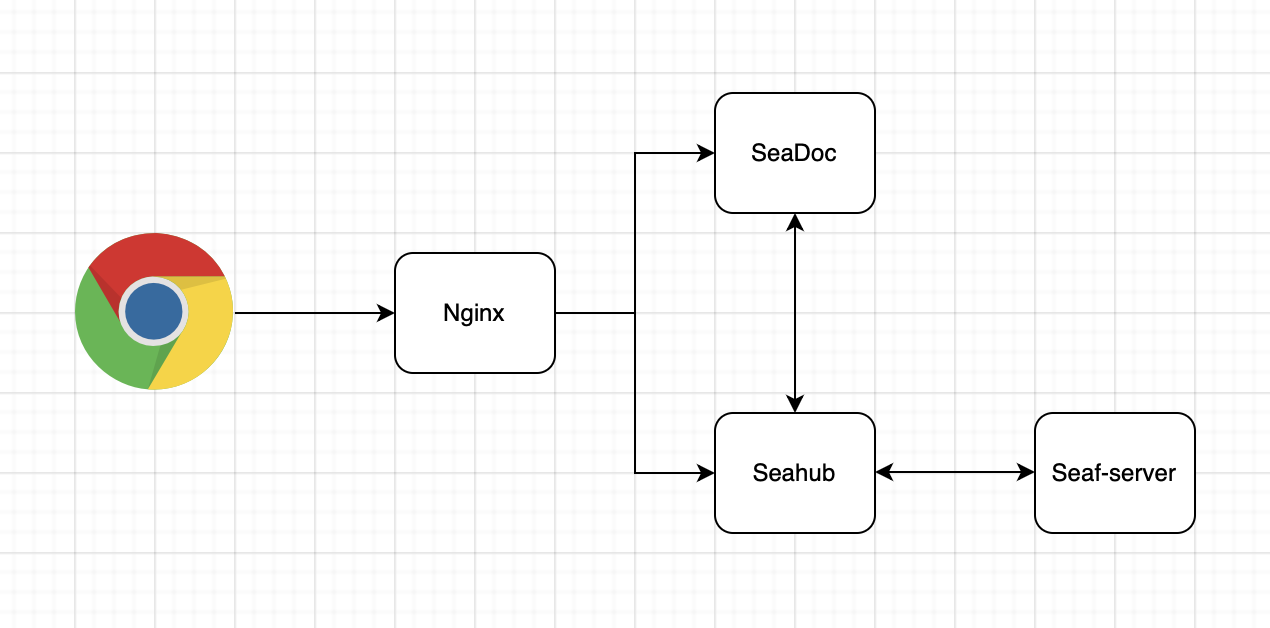
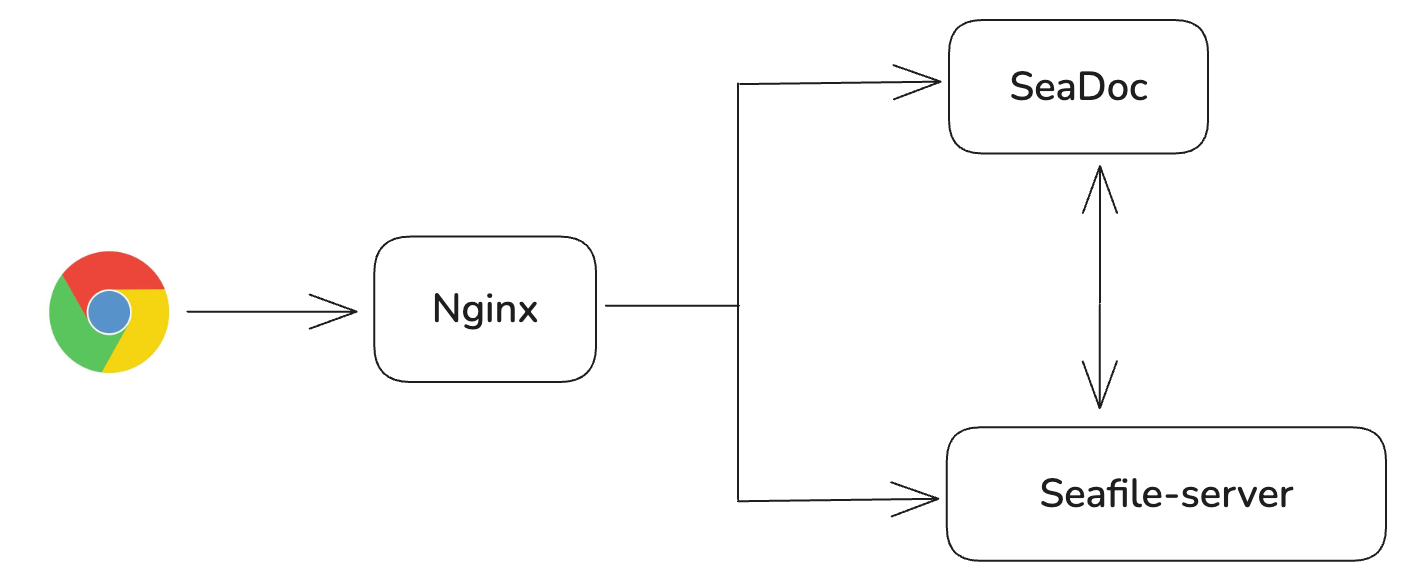
opt: update 12.0 seadoc

diff --git a/manual/extra_setup/setup_seadoc.md b/manual/extra_setup/setup_seadoc.md
@@ -24,9 +24,9 @@ The SeaDoc archticture is demonstrated as below:
 
 Here is the workflow when a user open sdoc file in browser
 
-1. When a user open a sdoc file in the browser, a file loading request will be sent to Nginx, and Nginx proxy the request to SeaDoc server.
+1. When a user open a sdoc file in the browser, a file loading request will be sent to Caddy, and Caddy proxy the request to SeaDoc server (see [Seafile instance archticture](../docker/seafile_docker_overview.md) for the details).
 2. SeaDoc server will send the content back if it is already cached, otherwise it sends a request to Seahub.
-3. Seahub loads the content from seaf-server and sends it to SeaDoc server.
+3. Seahub loads the content from Seafile-server, then sends it to SeaDoc server and write the file to the cache at the same time.
 4. After SeaDoc receives the content, it sends the content to the browser.
 
 ## Setup SeaDoc
@@ -35,11 +35,10 @@ Here is the workflow when a user open sdoc file in browser
 
 ### Deployment method
 
-SeaDoc has three deployment methods:
+SeaDoc has the following deployment methods:
 
-* Deploy SeaDoc on a new host.
-* SeaDoc and Seafile are deployed on the same host.
-* SeaDoc and Seafile docker are deployed on the same host.
+- Deploy SeaDoc on a new host.
+- SeaDoc and Seafile docker are deployed on the same host.
 
 ### Deploy SeaDoc on a new host
 
@@ -47,13 +46,13 @@ SeaDoc has three deployment methods:
 
 Download [docker-compose.yml](https://manual.seafile.com/docker/docker-compose/seadoc/0.8/docker-compose.yml) sample file to your host. Then modify the file according to your environment. The following fields are needed to be modified:
 
-* MySQL host (DB_HOST)
-* MySQL port (DB_PORT)
-* MySQL user (DB_USER)
-* MySQL password (DB_PASSWD)
-* The volume directory of SeaDoc data (volumes)
-* SeaDoc service URL (SDOC_SERVER_HOSTNAME)
-* Seafile service URL (SEAHUB_SERVICE_URL)
+- `DB_HOST`: MySQL host
+- `DB_PORT`: MySQL port
+- `DB_USER`: MySQL user
+- `DB_PASSWD`: MySQL password
+- `volumes`: The volume directory of SeaDoc data
+- `SDOC_SERVER_HOSTNAME`: SeaDoc service URL
+- `SEAHUB_SERVICE_URL`: Seafile service URL
 
 #### Create the SeaDoc database manually
 
@@ -67,123 +66,25 @@ GRANT ALL PRIVILEGES ON `sdoc_db`.* to `seafile`@`%.%.%.%`;
 ```
 
 Note, SeaDoc will only create one database table to store operation logs.
-
-Then follow the section: Start SeaDoc.
-
-### SeaDoc and Seafile (non docker version) are deployed on the same host
-
-#### Download and modify SeaDoc docker-compose.yml
-
-Download [docker-compose.yml](https://manual.seafile.com/docker/docker-compose/seadoc/0.8/docker-compose.yml) sample file to your host. Then modify the file according to your environment. The following fields are needed to be modified:
-
-* MySQL host (DB_HOST)
-* MySQL port (DB_PORT)
-* MySQL user (DB_USER)
-* MySQL password (DB_PASSWD)
-* The volume directory of SeaDoc data (volumes)
-* SeaDoc service URL (SDOC_SERVER_HOSTNAME)
-* Seafile service URL (SEAHUB_SERVICE_URL)
-
-The `ports` need to be modified additionally:
-
-```yml
-sdoc-server:
-    ...
-    ports:
-        # - "80:80"
-        # - "443:443"
-        - "7070:7070"
-        - "8888:8888"
-```
-
-#### Create the SeaDoc database manually
-
-SeaDoc and Seafile share the MySQL service.
-
-Create the database sdoc_db in Seafile MySQL and authorize the user.
-
-```sh
-create database if not exists sdoc_db charset utf8mb4;
-GRANT ALL PRIVILEGES ON `sdoc_db`.* to `seafile`@`%.%.%.%`;
-```
-
-Note, SeaDoc will only create one database table to store operation logs.
-
-#### Modify seafile.nginx.conf
-
-Add the following to the `seafile.nginx.conf`:
-
-```
-    location /sdoc-server/ {
-        add_header Access-Control-Allow-Origin *;
-        add_header Access-Control-Allow-Methods GET,POST,PUT,DELETE,OPTIONS;
-        add_header Access-Control-Allow-Headers "deviceType,token, authorization, content-type";
-        if ($request_method = 'OPTIONS') {
-            add_header Access-Control-Allow-Origin *;
-            add_header Access-Control-Allow-Methods GET,POST,PUT,DELETE,OPTIONS;
-            add_header Access-Control-Allow-Headers "deviceType,token, authorization, content-type";
-            return 204;
-        }
-
-        proxy_pass         http://127.0.0.1:7070/;
-        proxy_redirect     off;
-        proxy_set_header   Host              $host;
-        proxy_set_header   X-Real-IP         $remote_addr;
-        proxy_set_header   X-Forwarded-For   $proxy_add_x_forwarded_for;
-        proxy_set_header   X-Forwarded-Host  $server_name;
-        proxy_set_header   X-Forwarded-Proto $scheme;
-
-        client_max_body_size 100m;
-    }
-
-    location /socket.io {
-        proxy_pass http://127.0.0.1:7070;
-        proxy_http_version 1.1;
-        proxy_set_header Upgrade $http_upgrade;
-        proxy_set_header Connection 'upgrade';
-        proxy_redirect off;
-
-        proxy_buffers 8 32k;
-        proxy_buffer_size 64k;
-
-        proxy_set_header X-Real-IP $remote_addr;
-        proxy_set_header X-Forwarded-For $proxy_add_x_forwarded_for;
-        proxy_set_header Host $http_host;
-        proxy_set_header X-NginX-Proxy true;
-    }
-```
-
-And reload nginx
-
-```sh
-nginx -s reload
-```
 
 Then follow the section: Start SeaDoc.
 
 ### SeaDoc and Seafile docker are deployed on the same host
 
-#### Modify Seafile docker-compose.yml
+#### Download the seadoc.yml and integrate SeaDoc in Seafile docker
 
-Add the SeaDoc [docker-compose.yml](https://manual.seafile.com/docker/docker-compose/seadoc/0.8/docker-compose.yml) contents to the Seafile docker-compose.yml, and the `ports` need to be modified additionally:
+```shell
+# for community edition
+wget https://manual.seafile.com/docker/docker-compose/ce/12.0/seadoc.yml
 
-```yml
-services:
-  ...
-  seafile:
-    ...
+# for pro edition
+wget https://manual.seafile.com/docker/docker-compose/pro/12.0/seadoc.yml
+```
 
-  sdoc-server:
-    image: seafileltd/sdoc-server:latest
-    container_name: sdoc-server
-    # ports:
-      # - 80:80
-      # - 443:443
-      # - 7070:7070
-      # - 8888:8888
-    networks:
-      - seafile-net
-    ...
+Modify `.env`, and insert `seadoc.yml` into `COMPOSE_FILE`
+
+```shell
+COMPOSE_FILE='seafile-server.yml,caddy.yml,seadoc.yml'
 ```
 
 #### Create the SeaDoc database manually
@@ -198,58 +99,6 @@ GRANT ALL PRIVILEGES ON `sdoc_db`.* to `seafile`@`%.%.%.%`;
 ```
 
 Note, SeaDoc will only create one database table to store operation logs.
-
-#### Modify seafile.nginx.conf
-
-Add the following to the `seafile.nginx.conf`:
-
-```
-    location /sdoc-server/ {
-        add_header Access-Control-Allow-Origin *;
-        add_header Access-Control-Allow-Methods GET,POST,PUT,DELETE,OPTIONS;
-        add_header Access-Control-Allow-Headers "deviceType,token, authorization, content-type";
-        if ($request_method = 'OPTIONS') {
-            add_header Access-Control-Allow-Origin *;
-            add_header Access-Control-Allow-Methods GET,POST,PUT,DELETE,OPTIONS;
-            add_header Access-Control-Allow-Headers "deviceType,token, authorization, content-type";
-            return 204;
-        }
-
-        proxy_pass         http://sdoc-server:7070/;
-        proxy_redirect     off;
-        proxy_set_header   Host              $host;
-        proxy_set_header   X-Real-IP         $remote_addr;
-        proxy_set_header   X-Forwarded-For   $proxy_add_x_forwarded_for;
-        proxy_set_header   X-Forwarded-Host  $server_name;
-        proxy_set_header   X-Forwarded-Proto $scheme;
-
-        client_max_body_size 100m;
-    }
-
-    location /socket.io {
-        proxy_pass http://sdoc-server:7070;
-        proxy_http_version 1.1;
-        proxy_set_header Upgrade $http_upgrade;
-        proxy_set_header Connection 'upgrade';
-        proxy_redirect off;
-
-        proxy_buffers 8 32k;
-        proxy_buffer_size 64k;
-
-        proxy_set_header X-Real-IP $remote_addr;
-        proxy_set_header X-Forwarded-For $proxy_add_x_forwarded_for;
-        proxy_set_header Host $http_host;
-        proxy_set_header X-NginX-Proxy true;
-    }
-```
-
-And reload nginx
-
-```sh
-nginx -s reload
-```
-
-Then follow the section: Start SeaDoc.
 
 ## Start SeaDoc
 
@@ -283,34 +132,6 @@ Restart Seafile server
 
 Now you can use SeaDoc!
 
-## More configuration options
-
-### Let's encrypt SSL certificate
-
-If you set `SDOC_SERVER_LETSENCRYPT` to `true`, the container would request a letsencrypt-signed SSL certificate for you automatically.
-
-e.g.
-
-```
-sdoc-server:
-    ...
-    ports:
-        - "80:80"
-        - "443:443"
-    ...
-    environment:
-        ...
-        - SDOC_SERVER_LETSENCRYPT=true
-        - SDOC_SERVER_HOSTNAME=sdoc-server.seafile.com
-        ...
-
-```
-
-If you want to use your own SSL certificate and the volume directory of SeaDoc data is `/opt/seadoc-data`:
-
-* create a folder `/opt/seadoc-data/ssl`, and put your certificate and private key under the ssl directory.
-* Assume your site name is `sdoc-server.example.com`, then your certificate must have the name `sdoc-server.example.com.crt`, and the private key must have the name `sdoc-server.example.com.key`.
-
 ## SeaDoc directory structure
 
 ### `/opt/seadoc-data`
@@ -337,12 +158,6 @@ docker compose up -d
 ### Load doc content error
 
 If this error occurs, please check the logs of Nginx, SeaDoc, Seahub, and Seaf-server. You can refer to the following solutions for troubleshooting.
-
-#### seafile.nginx.conf
-
-Please check whether the configuration correctly proxy the `/sdoc-server/` and `/socket.io`.
-
-eg : IF you found `GET /sdoc-server/...` in seahub.access.log, it means that the request that should have been sent to SeaDoc was mistakenly sent to Seahub.
 
 #### seahub_settings.py
 
